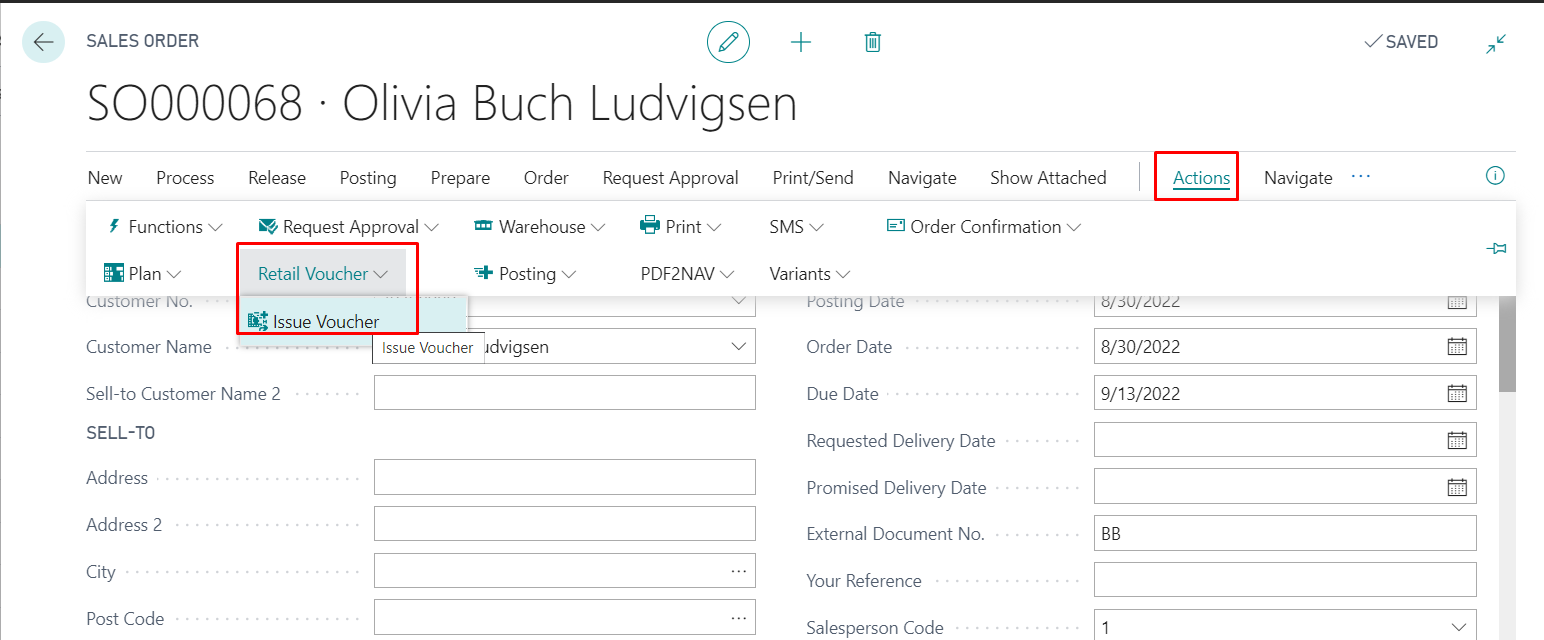
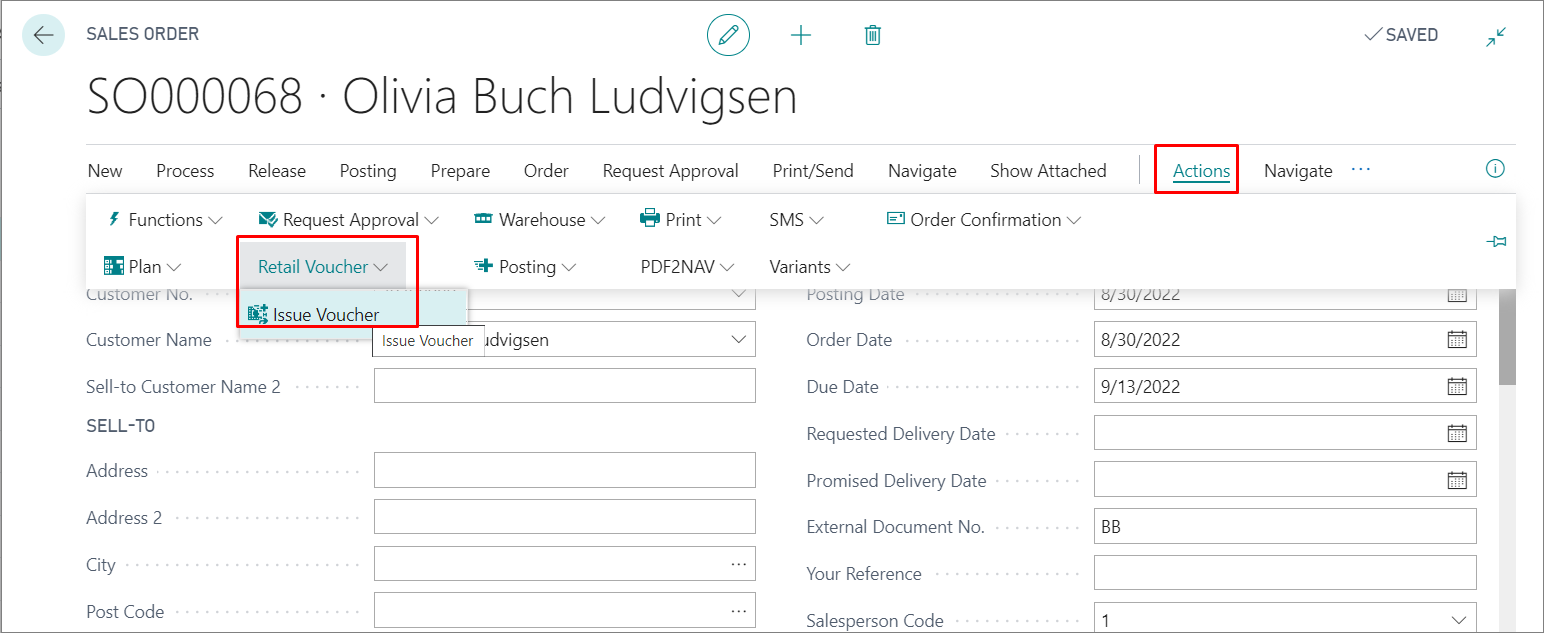
Merged PR 14823: Create a voucher on a sales order review  - Retail Documentation
review done

Related work items: #6414

diff --git a/Documentation/public/retail/Vouchers/howto/Create_a_voucher_on_a_sales_order.md b/Documentation/public/retail/Vouchers/howto/Create_a_voucher_on_a_sales_order.md
@@ -1,0 +1,49 @@
+# Create a voucher on a Sales order
+
+A retail voucher is a document that entitles the owner to purchase goods or services with it. As such, it can take the form of paper, electronic vouchers, tokens, and so on. It is widely used in the Retail & Service industries. 
+
+Vouchers can be generated through a sales order. To do so, follow the provided steps: 
+
+1. Click the ![Lightbulb that opens the Tell Me feature](../../../images/Icons/Lightbulb_icon.png "Tell Me what you want to do") button, enter **Sales Orders** and choose the related link. 
+2. Click **New**.
+3. Populate the following fields on the sales order header:
+
+- **Customer No.**
+- **External Document No.**
+- **Salesperson Code**
+
+> [!NOTE]
+> if some of the fields other than those mentioned above are mandatory, please fill them in. 
+
+2. To generate a voucher, click **Action** in the ribbon, followed by **Retail Voucher**, and finally **Issue Voucher**.
+
+    ![Sales order issue voucher](../images/Issuse%20voucher%20on%20SO.png)
+
+    The **RETAIL VOUCHER TYPES** window is displayed as a result.
+
+    ![Sales order issue voucher](../images/retail_voucher_types.png)
+
+
+3. Select the appropriate type of voucher (e.g gift voucher) and click **OK**.       
+   A notification that the voucher has been created will be displayed. 
+
+    ![Sales order issue voucher](../images/Voucher%20issued%20on%20new%20SO.png)
+
+    Using the function above, the system will create a new line in Sales order for the selected voucher type. 
+
+> [!NOTE]
+> If necessary, new sales lines for items and G/L accounts can be added.
+
+4. Enter the voucher amount on the created sales order line in the **Unit Price Excl. VAT** field.
+
+5. In the **Action** section, select **Posting**, and then click **Post**. 
+
+6. Select the **Ship and invoice** option.
+
+7. Click **OK**.       
+   The sales order is now posted, and a sales invoice created. 
+
+### Related links
+
+- [Create a new voucher](Create_a_new_voucher.md)
+- [Voucher types](../explanation/Voucher_types.md)
